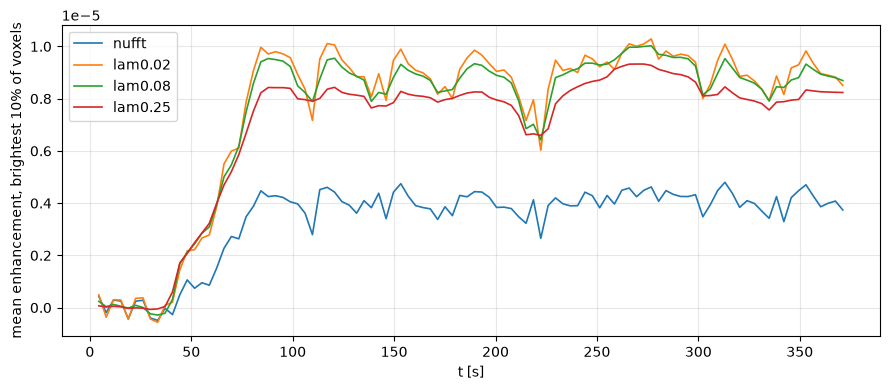
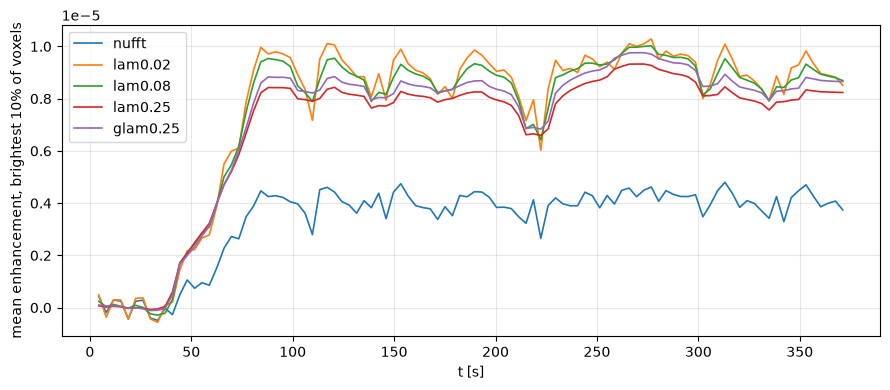
agent 2026-09-17 14:17 worker06.cluster: 7 files

diff --git a/results/dce_rerun_gv2/README.md b/results/dce_rerun_gv2/README.md
@@ -3,7 +3,7 @@
 binning 21 spokes/frame = 3.63 s, 102 frames, cut 15 spokes, 54 slices, ncc 8, POCS True
 kz: 22 acquired of 32 encoded, DC at 6, recon grid 64 (slice resolution 0.5), keep 54 (slab os 0.185)
 voxel 2.083 x 2.083 x 4.00 mm (header fov 400.0 mm, slab 216.0 mm)
-lambdas (fraction of max|E'y|): [0.02, 0.08, 0.25]; nufft = adjoint only
+lambdas (fraction of max|E'y| per slice): [0.02, 0.08, 0.25]; global lambdas (fraction of X0REF 7.58e-05): [0.25]; nufft = adjoint only
 
 | tag | diverged slices | 4d file |
 |---|---|---|
@@ -11,6 +11,7 @@ lambdas (fraction of max|E'y|): [0.02, 0.08, 0.25]; nufft = adjoint only
 | lam0.02 | [] | /net/beegfs/users/P101440/dce_data/orig/gv2_DCE_Rerun/lam0.02/recon4d.nii.gz |
 | lam0.08 | [] | /net/beegfs/users/P101440/dce_data/orig/gv2_DCE_Rerun/lam0.08/recon4d.nii.gz |
 | lam0.25 | [] | /net/beegfs/users/P101440/dce_data/orig/gv2_DCE_Rerun/lam0.25/recon4d.nii.gz |
+| glam0.25 | [] | /net/beegfs/users/P101440/dce_data/orig/gv2_DCE_Rerun/glam0.25/recon4d.nii.gz |
 
 peak frame 26 (t = 99 s), late frame 81 (t = 299 s), cuts z=27 y=87 x=78
 figures: fig0_ortho_lambdas_{peak,late}.png, fig1_ortho_gv2_<tag>.png, fig2_timeseries_gv2_<tag>.png, fig4_enh_curves_lambdas.png
